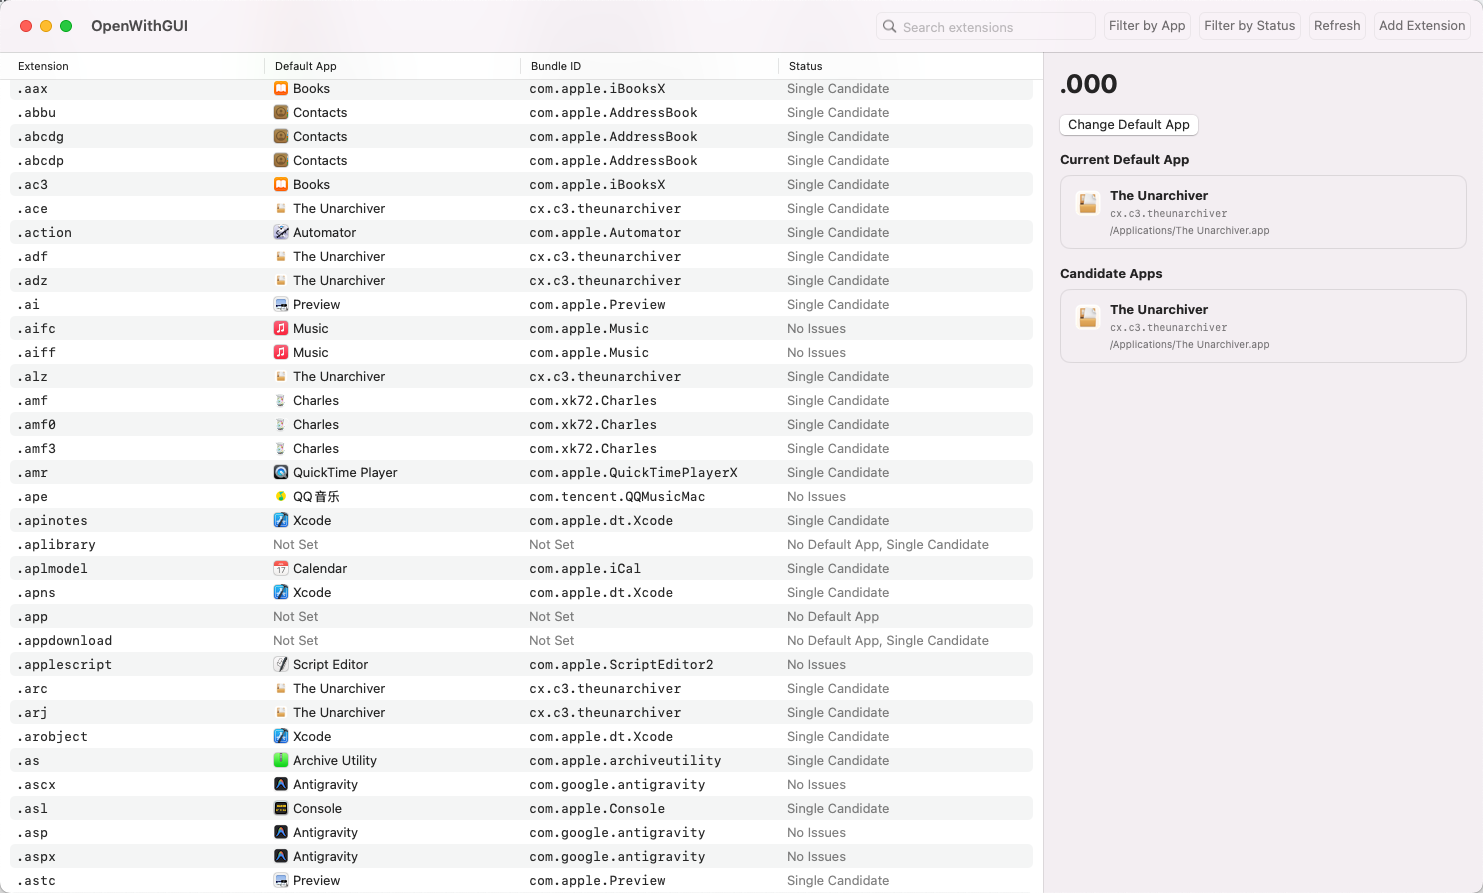
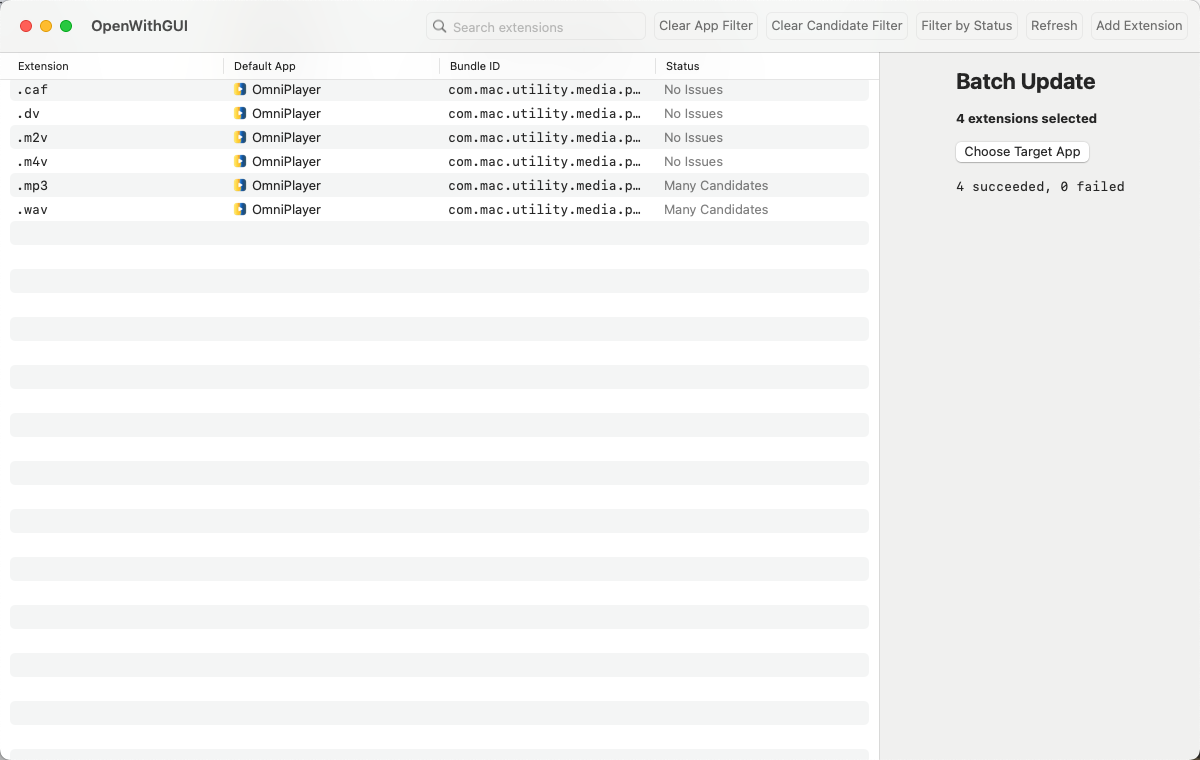
docs: 更新 README，添加编译教程和同类项目推荐
- 添加此 Fork 重大更新说明
- 在主要功能和解决问题模块中添加新功能描述
- 添加从源码编译的完整教程
- 添加 Run1997/OpenWith-GUI 到同类项目推荐

diff --git a/README.md b/README.md
@@ -16,6 +16,7 @@ Instead of going through Finder's `Get Info -> Open with -> Change All...` flow 
 - Shows the current default app, bundle ID, and status for each extension.
 - Filters rows by default app and status.
 - Filters rows by candidate app, so you can see every extension an app declares it can open.
+- **Filter all extensions supported by a specific app and batch change their default application in one action.**
 - Searches by extension only, so results stay predictable.
 - Supports multi-select, then assigns one app to all selected extensions in one action.
 - Shows candidate apps for a single extension before changing it.
@@ -46,6 +47,7 @@ macOS makes default-app management tedious:
 - You have to change associations one file type at a time.
 - The system does not offer a central panel for reviewing everything.
 - It is hard to see which app currently owns a given extension.
+- It is hard to see all extensions supported by a specific app and batch change them.
 - Some apps register broad associations and leave behind confusing state.
 
 OpenWithGUI is meant to make that state visible and editable without requiring users to memorize bundle IDs or click through repeated Finder dialogs.
@@ -61,6 +63,82 @@ This project is licensed under the [MIT License](LICENSE).
 ## Similar Projects
 
 - [ColeMei/openwith](https://github.com/ColeMei/openwith) - a Rust TUI project for managing macOS file extension associations from the terminal.
+- [Run1997/OpenWith-GUI](https://github.com/Run1997/OpenWith-GUI) - a SwiftUI-based macOS default application manager with similar functionality.
+
+## Build from Source
+
+### Requirements
+
+- macOS 14 or later
+- Swift 6.0 or later (comes with Xcode 16 or Command Line Tools)
+
+### Build Steps
+
+1. Clone the repository:
+```bash
+git clone https://github.com/RayMorTwinkle/OpenWith_Panel.git
+cd OpenWith_Panel
+```
+
+2. Build the project:
+```bash
+swift build -c release --disable-sandbox
+```
+
+3. Package the app:
+```bash
+# Create app bundle structure
+mkdir -p dist/OpenWithGUI.app/Contents/MacOS
+cp .build/arm64-apple-macosx/release/OpenWithGUI dist/OpenWithGUI.app/Contents/MacOS/
+chmod +x dist/OpenWithGUI.app/Contents/MacOS/OpenWithGUI
+
+# Copy resources
+mkdir -p dist/OpenWithGUI.app/Contents/Resources
+cp Assets/AppIcon.icns dist/OpenWithGUI.app/Contents/Resources/
+
+# Create Info.plist
+cat > dist/OpenWithGUI.app/Contents/Info.plist << 'EOF'
+<?xml version="1.0" encoding="UTF-8"?>
+<!DOCTYPE plist PUBLIC "-//Apple//DTD PLIST 1.0//EN" "http://www.apple.com/DTDs/PropertyList-1.0.dtd">
+<plist version="1.0">
+<dict>
+    <key>CFBundleExecutable</key>
+    <string>OpenWithGUI</string>
+    <key>CFBundleIdentifier</key>
+    <string>com.openwithgui.app</string>
+    <key>CFBundleName</key>
+    <string>OpenWithGUI</string>
+    <key>CFBundlePackageType</key>
+    <string>APPL</string>
+    <key>CFBundleShortVersionString</key>
+    <string>0.2.0</string>
+    <key>LSMinimumSystemVersion</key>
+    <string>14.0</string>
+</dict>
+</plist>
+EOF
+
+# Sign the app
+codesign --force --deep -s - dist/OpenWithGUI.app
+```
+
+4. Create DMG (optional):
+```bash
+mkdir -p dist/.dmg-staging
+cp -R dist/OpenWithGUI.app dist/.dmg-staging/
+ln -s /Applications dist/.dmg-staging/Applications
+hdiutil create -volname "OpenWithGUI" -srcfolder dist/.dmg-staging -ov -format UDZO dist/OpenWithGUI.dmg
+rm -rf dist/.dmg-staging
+```
+
+### Upload to GitHub Release
+
+```bash
+gh release create v0.2.0 \
+  --title "v0.2.0 - Filter by app and batch change" \
+  --notes "Release notes here" \
+  dist/OpenWithGUI.dmg
+```
 
 ## Acknowledgements
 